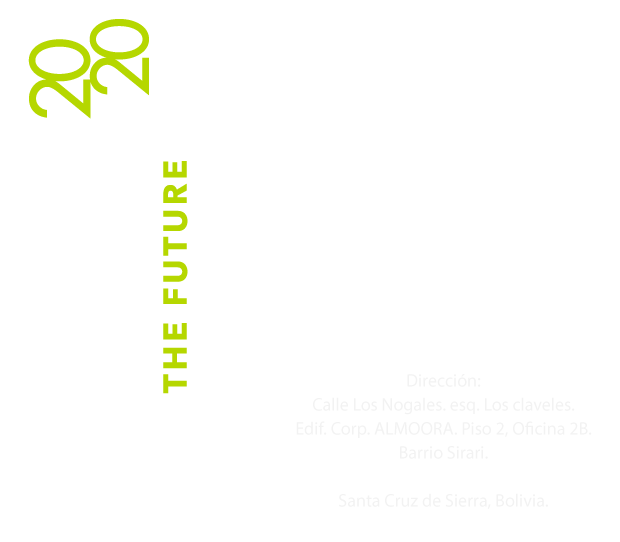
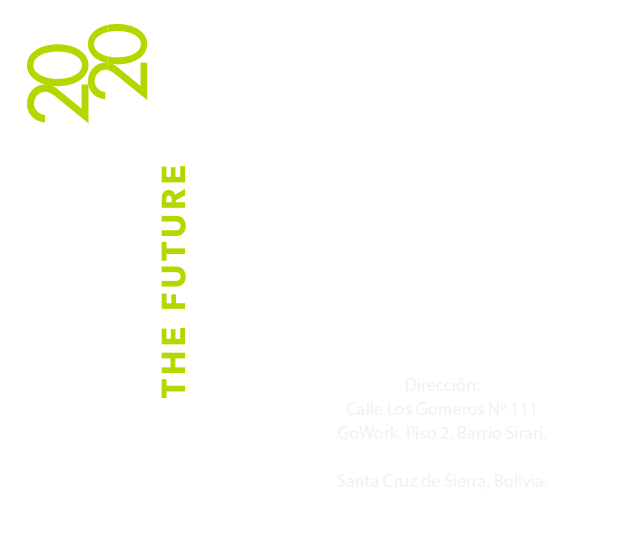
cambios

Changed region(s): [[0.0306, 0.0295, 0.2452, 0.2362], [0.2452, 0.2952, 0.3065, 0.738]]

diff --git a/index.html b/index.html
@@ -140,9 +140,11 @@
        <header class="masthead" style="background: url(img/fondo1x.jpg);background-repeat: no-repeat;background-attachment: scroll;background-position: center center;background-size: cover; height: 85vh" >
         <div class="">
           <div class="logoBanner" >
-            <img src="img/exma2020banner.png">
             <h1 class=""><img style="width: 150px" src="img/fecha.png"></h1>
+            <img src="img/exma2020banner.png">
+            <h1 class="">
             <a style="background: url(img/timer.jpg);background-repeat: no-repeat;" data-aos="zoom-in" class="btnBrochure"  href="#tickets">LLEVAME AL FUTURO</a>
+            <h1/>
           </div>
           
           <div  class="timerBanner" style="background: url(img/timer.jpg);background-repeat: no-repeat;background-attachment: scroll;background-position: center center;background-size: cover;">
@@ -187,7 +189,7 @@
         </article>
       </div>
       <div class="se-slope" style="margin-top:-340px">
-        <article class="se-content">
+        <article class="se-content" style="padding: 116px 100px 177px 100px;">
           <div style="text-align: center;">
             <p style="line-height: 30pt;">
               <label class="colorText1 animated pulse">{{this.data.slide3Text1}}</label> <br>
@@ -198,8 +200,8 @@
           </div>
         </article>
       </div>
-      <div id="experience" class="se-slope" style="background: url(img/fondo3x.jpg);background-repeat: no-repeat;background-attachment: scroll;background-position: center center;background-size: cover;">
-        <article class="se-content ">
+      <div id="experience" class="se-slope" style="background: url(img/fondo3x.jpg);background-repeat: no-repeat;background-attachment: scroll;background-position: center center;background-size: cover; padding: 60px 100px 110px 100px;">
+        <article class="se-content" style="padding: 150px 10px 250px 10px;">
             <div class="row row-cols-3">
               <div class="col-md-1 col-xs-2" style="text-align: center;">
                 <h1 data-aos="zoom-in" class="arrowsExperienceMarketing" @click="prevSlide"><</h1>
@@ -276,7 +278,7 @@
         </article>
       </div>-->
       <div class="se-slope" style="background: url(img/sponsorsBackground.jpg);background-repeat: no-repeat;background-attachment: scroll;background-position: center center;background-size: cover;">
-        <article class="se-content" style="padding: 130px 100px 130px 100px;">
+        <article class="se-content" style="padding: 130px 100px 167px 100px;">
           <h1 data-aos="flip-up" style="text-align: center; color: #13377c;font-family: 'Archer';font-weight: bold;font-style: normal;">SPONSORS</h1>
           <div>
             <div class="row row-cols-3">

diff --git a/css/exma.css b/css/exma.css
@@ -186,7 +186,7 @@
 }
 
 .logoBanner img {
-    width: 550px;
+    width: 600px;
 }
 .logoBanner h1 {
     font-size: 22px;
@@ -328,17 +328,17 @@
     overflow: scroll;
 }
 .numberExperienceMarketing{
-	font-size: 300px;
+	font-size: 320px;
     color: #b1268c;
     font-family: 'Archer';
-	font-weight: medium;
+    font-weight: 100;
     font-style: normal;
     text-shadow: 2px 2px 4px #000000;
 }
 .arrowsExperienceMarketing{
 	position: relative;
     top: 50%;
-    font-size: 80px;
+    font-size: 130px;
     font-weight: 100;
     color: #b1268c;
     font-family: 'Archer Hairline';
@@ -350,7 +350,7 @@
 .arrowsSponsors{
     position: relative;
     top: 50%;
-    font-size: 70px;
+    font-size: 130px;
     font-weight: 100;
     color:#13377ce3;
     font-family: 'Archer Hairline';
@@ -513,12 +513,13 @@
     font-weight: 100;
 }
 .columnFormContact{
-	padding: 0 45px;
+	padding: 0 5px;
 }
 
 
 #mainNav .navbar-nav .nav-item .nav-link.active, #mainNav .navbar-nav .nav-item .nav-link:hover {
     color: #e9196f !important;
+    font-weight: bold !important;
 }
 
 #mainNav.navbar-shrink {
@@ -540,7 +541,7 @@
 }
 #mainNav .navbar-nav .nav-item .nav-link {
 	font-family: 'Config Rounded' !important;
-	font-weight: medium !important;
+	font-weight: 100 !important;
     font-style: normal !important;
 }
 .mensajeFormContact{
@@ -554,6 +555,11 @@
     text-align: center;
     background: #000000b5;
     color: #ee5b2e;
+}
+
+#mainNav .navbar-nav .nav-item .nav-link.active, #mainNav .navbar-nav .nav-item .nav-link:active {
+    color: #e9196f !important;
+    font-weight: bold !important;
 }
 
 
@@ -672,6 +678,18 @@
     	padding-top: 5px !important;
     	padding-bottom: 5px !important;
 	}
+
+    .timerBanner {
+        width: 700px;
+        height: 90px;
+        margin: auto;
+        position: absolute;
+        right: 0;
+        left: 0;
+        bottom: 130px;
+        z-index: 1;
+        padding: 5px;
+    }
 }
 
 /*

diff --git a/css/style.css b/css/style.css
@@ -74,6 +74,9 @@
 }
 
 /* Media Queries */
+@media screen and (min-width: 2560px) {
+   
+}
 @media screen and (max-width: 1010px) {
    
 }
